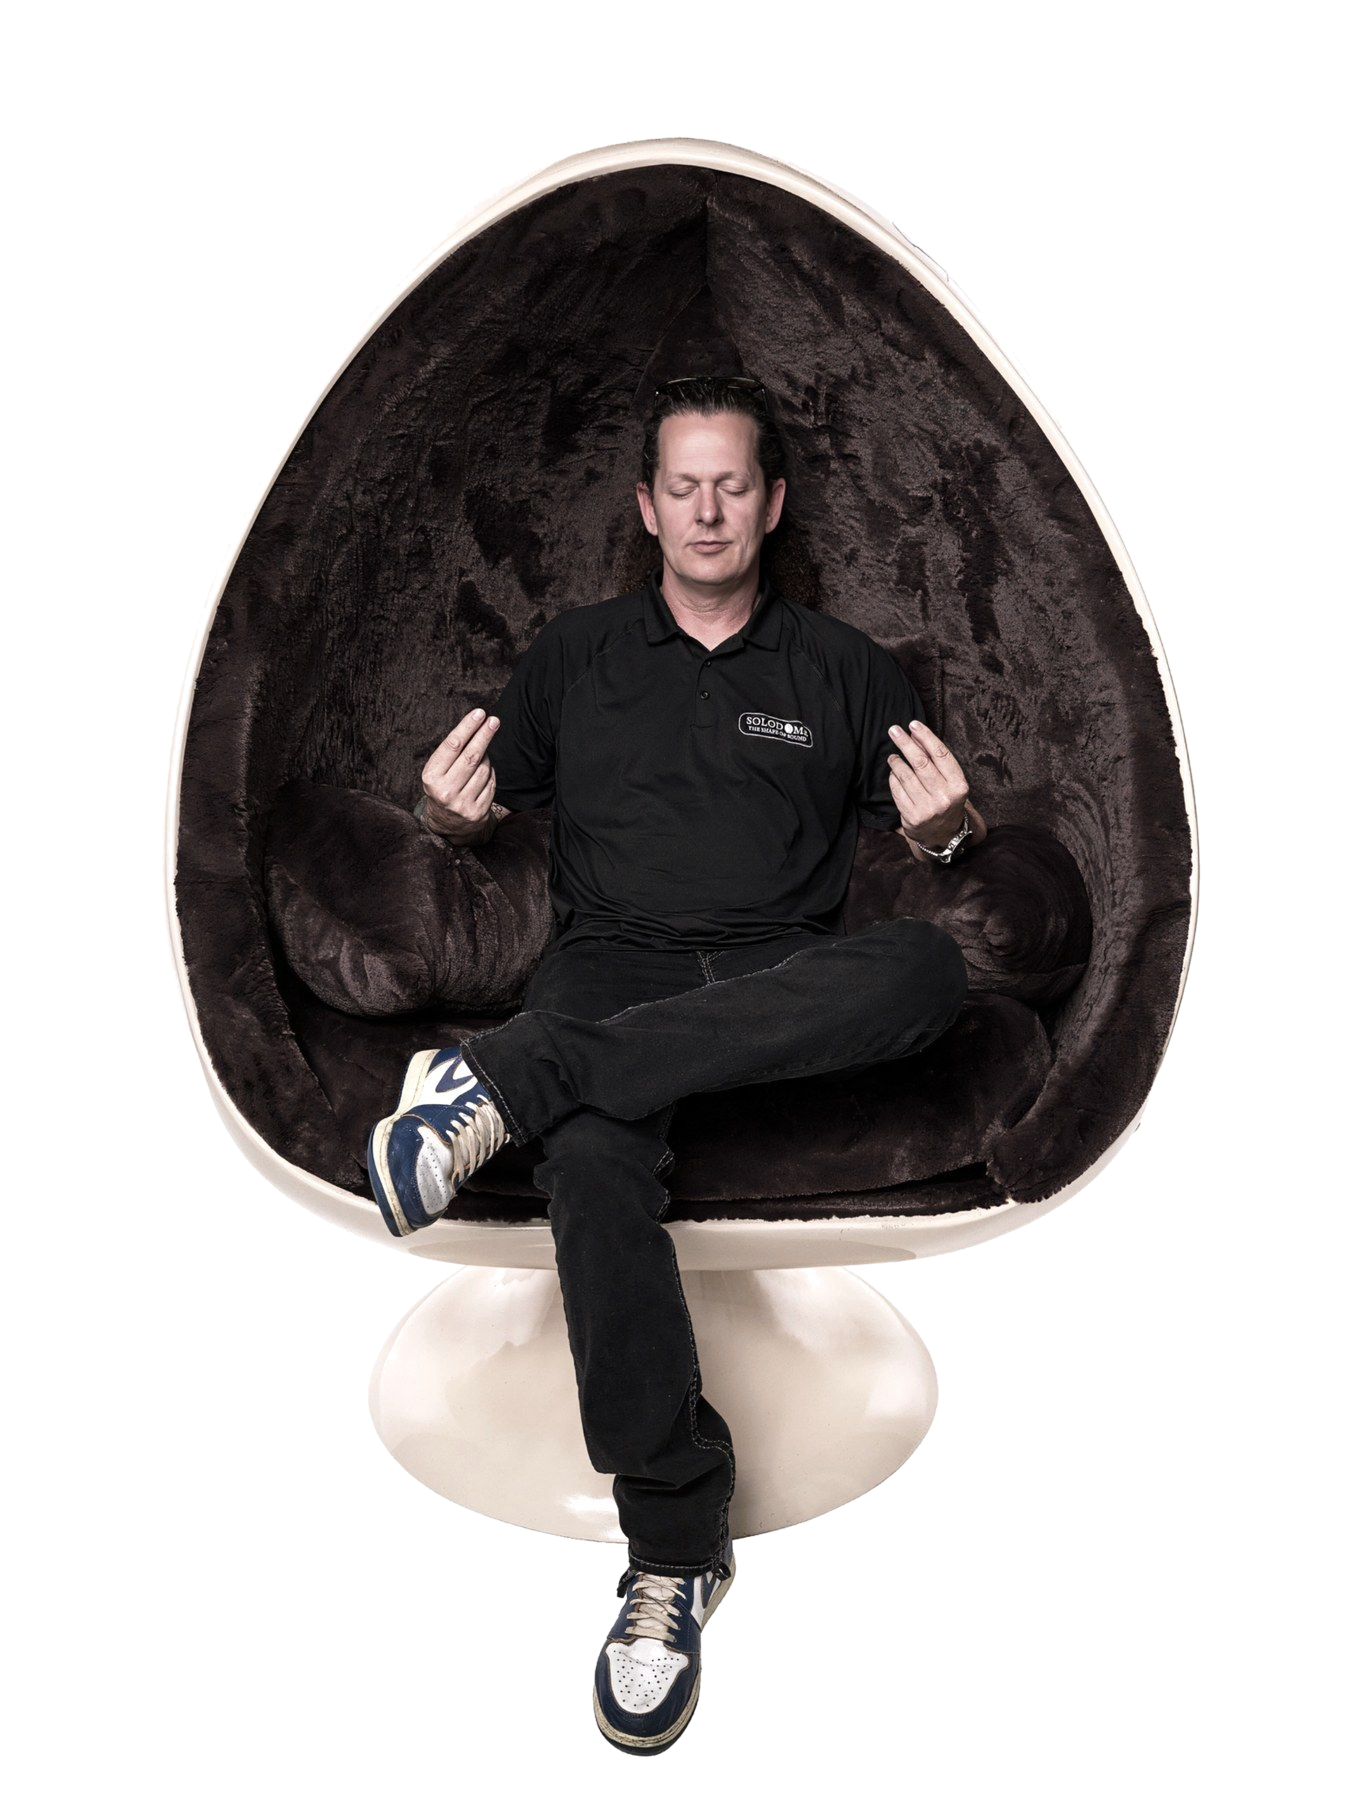
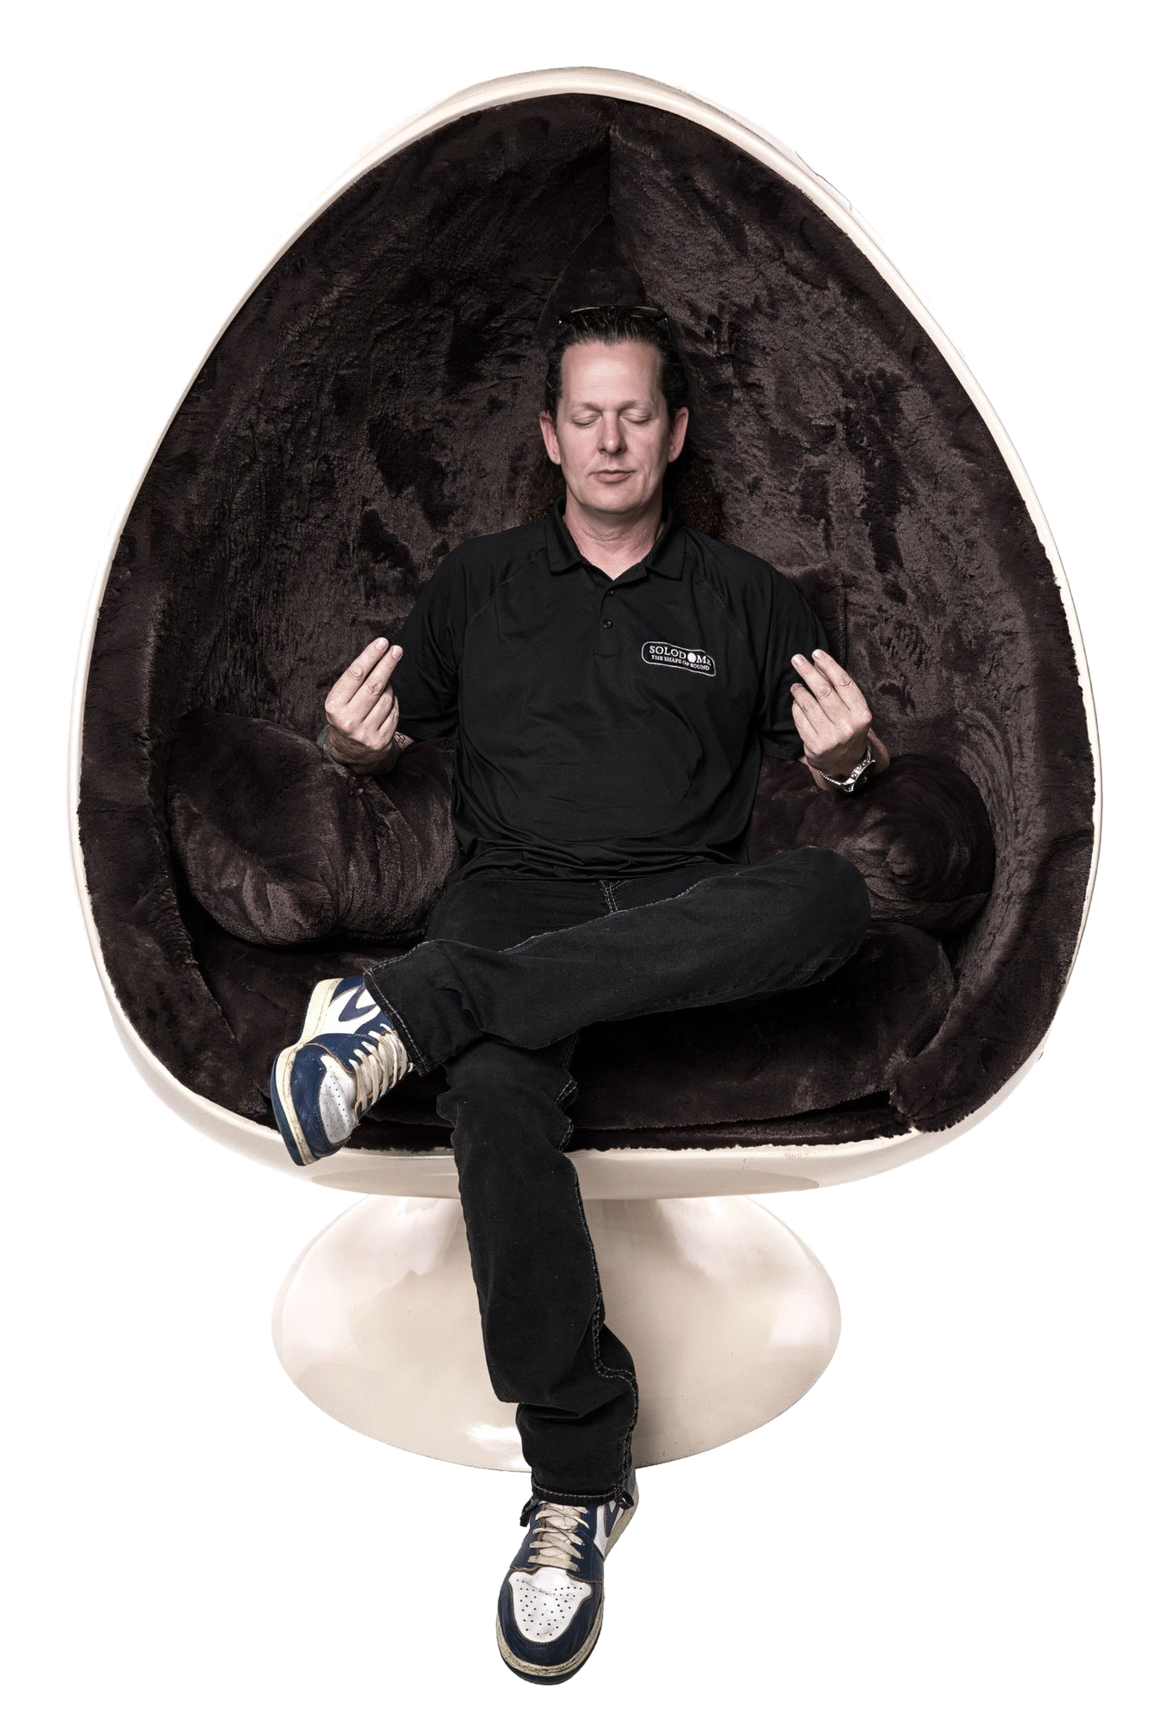
Solodome: larger Josh and Kris photos, Josh quote text on the left
Claude-Session: https://claude.ai/code/session_012U18n2jx8i57thyH5Nwtnb

diff --git a/features/solodome/index.html b/features/solodome/index.html
@@ -335,7 +335,7 @@ footer p span{color:#fed438}
     </div>
 
     <div class="wrap wide">
-      <div class="pq ir boxed photo" style="--ar:1350/1800">
+      <div class="pq ir boxed photo" style="--ar:1169/1729">
         <figure><span class="crop"><img loading="lazy" src="/features/solodome/img/s5.png" alt="Joshua Chaney, Co-Founder, meditating in the Solodome"></span></figure>
         <div class="q"><blockquote class="long" style="text-wrap:balance">“This isn’t music. These are standing waves that create something very effective in your body.”</blockquote><cite>Joshua Chaney, Co-Founder</cite></div>
       </div>
@@ -381,7 +381,7 @@ footer p span{color:#fed438}
     </div>
 
     <div class="wrap wide">
-      <div class="pq il boxed photo" style="--ar:1350/1800">
+      <div class="pq ir boxed photo" style="--ar:1287/1737">
         <figure><span class="crop"><img loading="lazy" src="/features/solodome/img/s11.png" alt="Joshua Chaney seated against the Solodome signed by Steven Tyler"></span></figure>
         <div class="q"><blockquote class="long" style="text-wrap:balance">“A builder by nature, he sees potential and brings ideas to life.”</blockquote></div>
       </div>
@@ -395,7 +395,7 @@ footer p span{color:#fed438}
     </div>
 
     <div class="wrap wide">
-      <div class="pq ir boxed photo" style="--ar:1350/1800">
+      <div class="pq ir boxed photo" style="--ar:1155/1760">
         <figure><span class="crop"><img loading="lazy" src="/features/solodome/img/s13.png" alt="Kris Cadle seated in the Solodome"></span></figure>
         <div class="q"><blockquote class="long" style="text-wrap:balance">“He is driven by passionate curiosity and a deep understanding of how sound interacts with the body.”</blockquote></div>
       </div>

diff --git a/_build/feature-template/solodome-source.html b/_build/feature-template/solodome-source.html
@@ -328,7 +328,7 @@ footer p span{color:#fed438}
     </div>
 
     <div class="wrap wide">
-      <div class="pq ir boxed photo" style="--ar:1350/1800">
+      <div class="pq ir boxed photo" style="--ar:1169/1729">
         <figure><span class="crop"><img src="{{s5}}" alt="Joshua Chaney, Co-Founder, meditating in the Solodome"></span></figure>
         <div class="q"><blockquote class="long" style="text-wrap:balance">“This isn’t music. These are standing waves that create something very effective in your body.”</blockquote><cite>Joshua Chaney, Co-Founder</cite></div>
       </div>
@@ -374,7 +374,7 @@ footer p span{color:#fed438}
     </div>
 
     <div class="wrap wide">
-      <div class="pq il boxed photo" style="--ar:1350/1800">
+      <div class="pq ir boxed photo" style="--ar:1287/1737">
         <figure><span class="crop"><img src="{{s11}}" alt="Joshua Chaney seated against the Solodome signed by Steven Tyler"></span></figure>
         <div class="q"><blockquote class="long" style="text-wrap:balance">“A builder by nature, he sees potential and brings ideas to life.”</blockquote></div>
       </div>
@@ -388,7 +388,7 @@ footer p span{color:#fed438}
     </div>
 
     <div class="wrap wide">
-      <div class="pq ir boxed photo" style="--ar:1350/1800">
+      <div class="pq ir boxed photo" style="--ar:1155/1760">
         <figure><span class="crop"><img src="{{s13}}" alt="Kris Cadle seated in the Solodome"></span></figure>
         <div class="q"><blockquote class="long" style="text-wrap:balance">“He is driven by passionate curiosity and a deep understanding of how sound interacts with the body.”</blockquote></div>
       </div>
